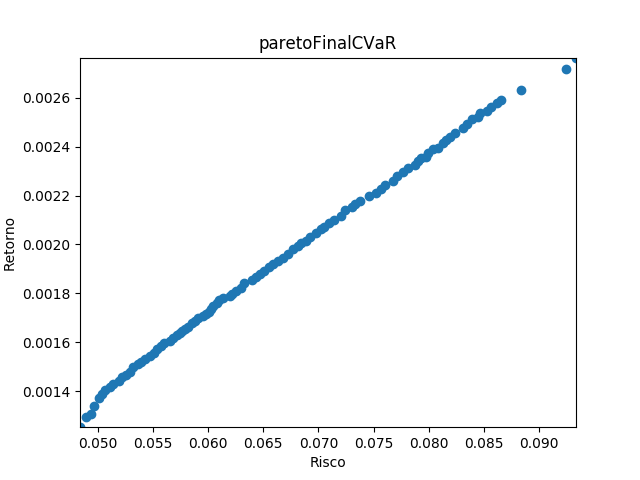
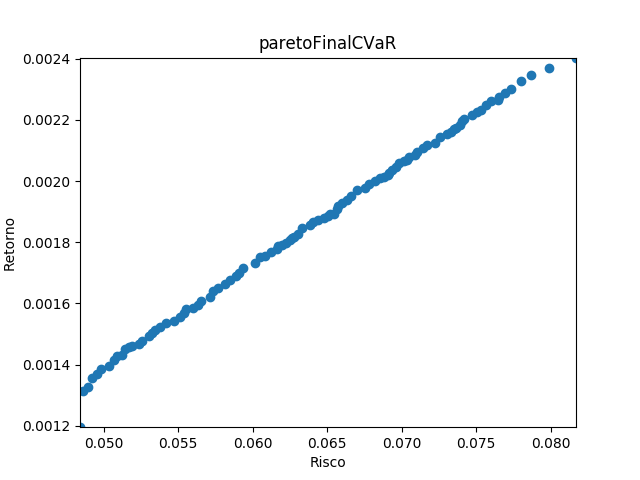
gitignore

diff --git a/nsga2.py b/nsga2.py
@@ -2,13 +2,13 @@ from operadores import *
 from aux import *
 from globais import *
 from metricas import *
-import itertools
-import matplotlib.pyplot as plt
-import random
 from os import listdir
 from os.path import isfile, join
 from pprint import pprint
+import matplotlib.pyplot as plt
 import numpy as np
+import random
+import itertools
 import timeit
 
 class Ativo:
@@ -143,8 +143,6 @@ class Carteira:
             cont += 1
         return cont
                 
-
-
 def inicializa():    
     
     global listaAtivos
@@ -185,23 +183,6 @@ def inicializa():
                 listaAtivos.append(Ativo(codigoAtivo,listaCotacoes[i]))
     
         
-def metrica_risco(valor):
-
-    #calcula o risco e o retorno de cada ativo e atualiza os valores de listaAtivos
-    for i in listaAtivos:
-        if(valor == 0):
-            ris = cvar(i.getCotacoes())[1] #[0] = CVaR 95% | [1] = CVaR 99% | [2] = CVaR 99.9%
-        elif(valor == 1):
-            ris = ewma(i.getCotacoes())
-        elif(valor == 2):
-            ris = garch(i.getCotacoes())
-        elif(valor == 3):
-            ris = lpm(i.getCotacoes())
-        i.setRisco(ris)
-        ret = sum(retorno(i.getCotacoes()))/len(i.getCotacoes())
-        i.setRetorno(ret)
-
-
 def populacao_inicial():
     global populacao
     for j in range(TAM_POP):
@@ -212,62 +193,28 @@ def populacao_inicial():
         populacao.append(Carteira(carteira))
 
 
-def melhor_carteira(pop):
-    melhor = pop[0]
-    for carteira in pop:
-        if carteira.fitness() > melhor.fitness():
-            melhor = carteira
-    return carteira
-
-
-def grafico_risco_retorno(x,y,nome):
-    
-    plt.scatter(x, y)
-    plt.axis([min(x), max(x), min(y), max(y)])
-    plt.xlabel('Risco')
-    plt.ylabel('Retorno')
-    plt.title(nome)
-    plt.savefig("figuras/"+nome + '.png')
-    plt.show()
-
-
-def calcula_cotacoes_carteira(carteira):
-    numero_cotacoes = len(carteira.getAtivoPeloIndex(0)[0].getCotacoes())
-    matriz = []
-    for i in range(carteira.cardinalidade()):
-        matriz.append([0]*numero_cotacoes)
-
-    for ativo in range(carteira.cardinalidade()):
-        for cotacao in range(numero_cotacoes):
-            matriz[ativo][cotacao] +=  carteira.getAtivoPeloIndex(0)[0].getCotacoes()[cotacao] * carteira.getAtivoPeloIndex(ativo)[1]
-
-    y = [0]*numero_cotacoes
-    for i in range(numero_cotacoes):
-        for ativo in range(len(matriz)):
-            y[i] += matriz[ativo][i]
-            
-    return y
-
-def grafico_tempo(carteira_cvar, carteira_ewma, carteira_garch, carteira_lpm):
+def grafico_tempo(carteira_cvar, carteira_var, carteira_ewma, carteira_garch, carteira_lpm):
     global lista_ibovespa
 
     cotacoes_cvar = calcula_cotacoes_carteira(carteira_cvar)
+    cotacoes_var = calcula_cotacoes_carteira(carteira_var)
     cotacoes_ewma = calcula_cotacoes_carteira(carteira_ewma)
     cotacoes_garch = calcula_cotacoes_carteira(carteira_garch)
     cotacoes_lpm = calcula_cotacoes_carteira(carteira_lpm)
 
 
-    plt.plot(range(len(retorno_acumulado(cotacoes_cvar))),retorno_acumulado(cotacoes_cvar),color = 'green', label = 'CVaR')
-    plt.plot(range(len(retorno_acumulado(cotacoes_ewma))),retorno_acumulado(cotacoes_ewma),color = 'red', label = 'EWMA')
-    plt.plot(range(len(retorno_acumulado(cotacoes_garch))),retorno_acumulado(cotacoes_garch), color = 'orange', label = 'GARCH')
-    plt.plot(range(len(retorno_acumulado(cotacoes_lpm))),retorno_acumulado(cotacoes_lpm),color = 'blue', label = 'LPM')
+    plt.plot(range(len(retorno_acumulado(cotacoes_cvar))),retorno_acumulado(cotacoes_cvar),color = '#66ffa3', label = 'CVaR')
+    plt.plot(range(len(retorno_acumulado(cotacoes_var))),retorno_acumulado(cotacoes_var),color = '#ff66c7', label = 'VaR')
+    plt.plot(range(len(retorno_acumulado(cotacoes_ewma))),retorno_acumulado(cotacoes_ewma),color = '#c457ff', label = 'EWMA')
+    plt.plot(range(len(retorno_acumulado(cotacoes_garch))),retorno_acumulado(cotacoes_garch), color = '#ffeb57', label = 'GARCH')
+    plt.plot(range(len(retorno_acumulado(cotacoes_lpm))),retorno_acumulado(cotacoes_lpm),color = '#66c2ff', label = 'LPM')
     
-    plt.plot(range(len(retorno_acumulado(lista_ibovespa))), retorno_acumulado(lista_ibovespa), color = 'black', label = 'IBOVESPA')
+    plt.plot(range(len(retorno_acumulado(lista_ibovespa))), retorno_acumulado(lista_ibovespa), color = 'black', label = 'Ibovespa')
     plt.legend()
     plt.xlabel('Tempo')
     plt.ylabel('Retorno acumulado (%)')
     plt.title("Retorno Acumulado")
-    plt.savefig('figuras/MelhorCarteira.png')
+    plt.savefig('graficos/MelhorCarteira.png')
     plt.show()
 
 def otimiza(populacao_filtrada):
@@ -286,6 +233,11 @@ def main():
     pontos_y_cvar = []
     solucao_final_cvar = None
 
+    pontos_x_var = []
+    pontos_y_var = []
+    solucao_final_var = None
+
+
     pontos_x_ewma = []
     pontos_y_ewma = []
     solucao_final_ewma = None
@@ -298,7 +250,7 @@ def main():
     pontos_y_lpm = []
     solucao_final_lpm = None
      
-    for risco in range(4):
+    for risco in range(QUANTIDADE_METRICAS):
         metrica_risco(risco)
         primeira_execucao = True  
            
@@ -372,6 +324,10 @@ def main():
             solucao_final_garch = solucao_final
             pontos_x_garch = pontos_x
             pontos_y_garch = pontos_y
+        elif(risco == 3):
+            solucao_final_var = solucao_final
+            pontos_x_var = pontos_x
+            pontos_y_var = pontos_y
         else:
             solucao_final_lpm = solucao_final
             pontos_x_lpm = pontos_x
@@ -379,6 +335,9 @@ def main():
         
 
     print("CVAR")
+    solucao_final_cvar.printCarteira()
+    
+    print("VAR")
     solucao_final_cvar.printCarteira()
 
     print("EWMA")
@@ -391,11 +350,12 @@ def main():
     solucao_final_lpm.printCarteira()
 
 
-    grafico_tempo(solucao_final_cvar, solucao_final_ewma, solucao_final_garch, solucao_final_lpm)
+    grafico_tempo(solucao_final_cvar, solucao_final_var, solucao_final_ewma, solucao_final_garch, solucao_final_lpm)
     grafico_risco_retorno(x1,y1,"paretoInicial")
     #grafico_risco_retorno(pontos_x_cvar,pontos_y_cvar, pontos_x_ewma, 
     #pontos_y_ewma,pontos_x_garch,pontos_y_garch, pontos_x_lpm, pontos_y_lpm,"paretoFinal")
     grafico_risco_retorno(pontos_x_cvar, pontos_y_cvar, "paretoFinalCVaR")
+    grafico_risco_retorno(pontos_x_var, pontos_y_var, "paretoFinalVaR")
     grafico_risco_retorno(pontos_x_ewma, pontos_y_ewma, "paretoFinalEWMA")
     grafico_risco_retorno(pontos_x_garch, pontos_y_garch, "paretoFinalGARCH")
     grafico_risco_retorno(pontos_x_lpm, pontos_y_lpm, "paretoFinalLPM")

diff --git a/metricas.py b/metricas.py
@@ -3,15 +3,15 @@ from nsga2 import *
 from operadores import *
 from aux import *
 from globais import *
-import itertools
-import matplotlib.pyplot as plt
-import random
 from os import listdir
 from os.path import isfile, join
 from pprint import pprint
-import numpy as np
-import timeit
 from math import ceil
+import matplotlib.pyplot as plt
+import numpy as np
+import itertools
+import random
+import timeit
 
 def retorno(ativo):
     retorno = []
@@ -62,19 +62,41 @@ def var(ativo):
     var99 = ret_ord[ceil((1-(99/100))*total_count)]
     var999 = ret_ord[ceil((1-(99.9/100))*total_count)]
 
-    return [(var95), (var99), (var999)]
+    return [(-var95), (-var99), (-var999)]
     
+
+def soma_aux(retorno, indice):
+    s = 0
+    for i in range(indice):
+        s+= retorno[i]
+    return s
+
 def cvar(ativo):
     ret_ord = retorno(ativo)
     ret_ord.sort()
     total_count = len(ret_ord)
-
-    # var95 = ret_ord[ceil((1-(95/100))*total_count)]
-    # var99 = ret_ord[ceil((1-(99/100))*total_count)]
-    # var999 = ret_ord[ceil((1-(99.9/100))*total_count)]
 
     cvar95 = -((1/((1-(95/100))*total_count))*soma_aux(ret_ord, ceil((1-(95/100))*total_count)))
     cvar99 = -((1/((1-(99/100))*total_count))*soma_aux(ret_ord, ceil((1-(99/100))*total_count)))
     cvar999 = -((1/((1-(99.9/100))*total_count))*soma_aux(ret_ord, ceil((1-(99.9/100))*total_count)))
 
     return [(cvar95), (cvar99), (cvar999)]
+
+
+def metrica_risco(valor):
+
+    #calcula o risco e o retorno de cada ativo e atualiza os valores de listaAtivos
+    for i in listaAtivos:
+        if(valor == 0):
+            ris = cvar(i.getCotacoes())[1] #[0] = CVaR 95% | [1] = CVaR 99% | [2] = CVaR 99.9%
+        elif(valor == 1):
+            ris = ewma(i.getCotacoes())
+        elif(valor == 2):
+            ris = garch(i.getCotacoes())
+        elif(valor == 3):
+            ris = var(i.getCotacoes())[1]
+        elif(valor == 4):
+            ris = lpm(i.getCotacoes())
+        i.setRisco(ris)
+        ret = sum(retorno(i.getCotacoes()))/len(i.getCotacoes())
+        i.setRetorno(ret)

diff --git a/aux.py b/aux.py
@@ -1,5 +1,15 @@
 from globais import *
+from nsga2 import *
+from operadores import *
+from metricas import *
+from os.path import isfile, join
+from os import listdir
+from pprint import pprint
+import matplotlib.pyplot as plt
+import numpy as np
+import itertools
 import random
+import timeit
 
 def pesoProporcional(carteira,i):
     soma = 0.0
@@ -64,3 +74,39 @@ def domina(carteira1, carteira2): #verificar condições de dominância
     if(carteira1.getRisco() < carteira2.getRisco() and carteira1.getRetorno() > carteira2.getRetorno()):
             return True
     return False
+
+def melhor_carteira(pop):
+    melhor = pop[0]
+    for carteira in pop:
+        if carteira.fitness() > melhor.fitness():
+            melhor = carteira
+    return carteira
+
+
+def calcula_cotacoes_carteira(carteira):
+    numero_cotacoes = len(carteira.getAtivoPeloIndex(0)[0].getCotacoes())
+    matriz = []
+    for i in range(carteira.cardinalidade()):
+        matriz.append([0]*numero_cotacoes)
+
+    for ativo in range(carteira.cardinalidade()):
+        for cotacao in range(numero_cotacoes):
+            matriz[ativo][cotacao] +=  carteira.getAtivoPeloIndex(0)[0].getCotacoes()[cotacao] * carteira.getAtivoPeloIndex(ativo)[1]
+
+    y = [0]*numero_cotacoes
+    for i in range(numero_cotacoes):
+        for ativo in range(len(matriz)):
+            y[i] += matriz[ativo][i]
+            
+    return y
+
+
+def grafico_risco_retorno(x,y,nome):
+    
+    plt.scatter(x, y)
+    plt.axis([min(x), max(x), min(y), max(y)])
+    plt.xlabel('Risco')
+    plt.ylabel('Retorno')
+    plt.title(nome)
+    plt.savefig("graficos/"+nome + '.png')
+    plt.show()

diff --git a/globais.py b/globais.py
@@ -1,9 +1,10 @@
 TAM_POP = 100
 CARDINALIDADE = 9
-ITERACOES = 50
+ITERACOES = 100
 PROBABILIDADE_MUTACAO = 0.1
-EXECUCOES = 10
+EXECUCOES = 5
 QUANTIDADE_ATIVOS = 62
+QUANTIDADE_METRICAS = 5
 listaAtivos = []
 populacao = []
 lista_ibovespa = []

diff --git a/operadores.py b/operadores.py
@@ -1,9 +1,9 @@
 from globais import *
 from aux import *
 from nsga2 import *
+from math import ceil
 import random
 import copy
-from math import ceil
 import sys
 import timeit
 
